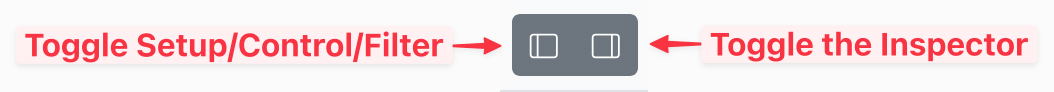
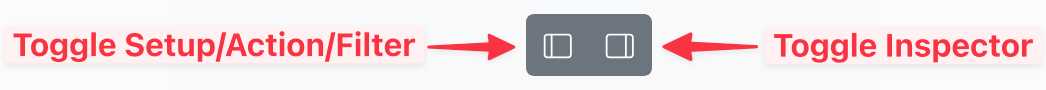
Start updating docs for 0.8 release.

Changed region(s): [[0.0, 0.1333, 1.0, 0.8444], [0.4589, 0.9778, 0.6119, 1.0]]

diff --git a/docs/docs/getting-your-bearings.md b/docs/docs/getting-your-bearings.md
@@ -2,12 +2,12 @@
 
 When you first visit the application, you are presented with four main panes:
 
-![User interface structure diagram](./images/ui-structure@2x.png){width=1920}
+![User interface structure diagram](./images/ui-structure@2x.png){width=1440}
 
 * [Toolbar](#toolbar) (top bar) - the application version and some action buttons.
 * [Setup](#setup-pane) (top left) - where you configure the overall parameters of the simulation,
   such as the datum to run through the filters, node metadata, and placeholders.
-* [Control](#control-pane) (middle left) - where you can start the simulation as well as import or
+* [Action](#action-pane) (middle left) - where you can start the simulation as well as import or
   export the filter settings as CSV files.
 * [Filter Palette](#filter-palette) (bottom left) - a list of the available filters that you can
   drag onto the canvas.
@@ -27,7 +27,7 @@ action buttons on the right side.
 ### Pane toggle buttons
 
 <figure markdown>
-![Application toolbar pane toggle buttons](./images/toolbar-toggle-buttons-annotated@2x.png){width=527}
+![Application toolbar pane toggle buttons](./images/toolbar-toggle-buttons-annotated@2x.png){width=523}
 </figure>
 
 The first two buttons in the toolbar allow you to toggle the left and right applicaiton pane
@@ -79,10 +79,10 @@ ID), and any User Metadata Services.
 The **Controls** tab holds the node's simulated controls, which filters like the Control Updater
 set. See [Controls and Instructions](./controls-and-instructions.md) for more details.
 
-## Control pane
+## Action pane
 
 <figure markdown>
-![Control pane](./images/control-pane@2x.png){width=351}
+![Action pane](./images/action-pane@2x.png){width=351}
 </figure>
 
 The Control pane is where you can:

diff --git a/docs/docs/creating-a-simulation.md b/docs/docs/creating-a-simulation.md
@@ -54,11 +54,11 @@ conductors those with the same Service Name. When you replace the simulation wit
 controls or conductors, they replace all of them. ++ctrl+z++ does not undo changes to the
 **Controls** tab. Exports include only the filter settings.
 
-Now in the Simulator, click on the **Import settings** button in the [Control pane][control-pane]
+Now in the Simulator, click on the **Import settings** button in the [Action pane][action-pane]
 and select the file you exported from SolarNode.
 
 <figure markdown>
-![Import settings button in the Control pane](./images/control-pane-import-button@2x.png){width=352}
+![Import settings button in the Action pane](./images/action-pane-import-button@2x.png){width=352}
 </figure>
 
 ## Making changes
@@ -72,11 +72,11 @@ key.
 You can use ++ctrl+z++ or ++cmd+z++ to undo your changes as you go.
 
 
+[action-pane]: ./getting-your-bearings.md#action-pane
 [bacnet-control]: https://solarnetwork.github.io/solarnode-handbook/users/controls/bacnet/
 [canvas]: ./getting-your-bearings.md#canvas
 [control-conductor]: https://solarnetwork.github.io/solarnode-handbook/users/controls/conductor/
 [control-ds]: https://solarnetwork.github.io/solarnode-handbook/users/datum-sources/control/
-[control-pane]: ./getting-your-bearings.md#control-pane
 [downsample]: https://solarnetwork.github.io/solarnode-handbook/users/datum-filters/downsample/
 [filter-palette]: ./getting-your-bearings.md#filter-palette
 [gpio-control]: https://solarnetwork.github.io/solarnode-handbook/users/controls/gpio/

diff --git a/docs/docs/running-a-simulation.md b/docs/docs/running-a-simulation.md
@@ -1,9 +1,9 @@
 # Running a simulation
 
-Once you have a simualtion set up, run it by clicking the **Run** button in the [Control pane][control-pane]:
+Once you have a simualtion set up, run it by clicking the **Run** button in the [Action pane][action-pane]:
 
 <figure markdown>
-![The simulation run button](./images/control-pane-run-button@2x.png){width=352}
+![The simulation run button](./images/action-pane-run-button@2x.png){width=352}
 <figcaption markdown>Execute a simulation by clicking the **Run** button.</figcaption>
 </figure>
 
@@ -60,9 +60,9 @@ at 2025-10-01 00:09:00Z", and its route on the Canvas starts at the filter that 
 instruction. Instructions still waiting when the simulation ends are listed in the final state. In
 debug mode, the **Instructions** tab shows the instructions waiting as of each filter step.
 
+[action-pane]: ./getting-your-bearings.md#action-pane
 [canvas]: ./getting-your-bearings.md#canvas
 [control-conductor]: https://solarnetwork.github.io/solarnode-handbook/users/controls/conductor/
-[control-pane]: ./getting-your-bearings.md#control-pane
 [datum-queue]: https://solarnetwork.github.io/solarnode-handbook/users/datum-filters/#datum-queue
 [downsample]: https://solarnetwork.github.io/solarnode-handbook/users/datum-filters/downsample/
 [split]: https://solarnetwork.github.io/solarnode-handbook/users/datum-filters/split/
